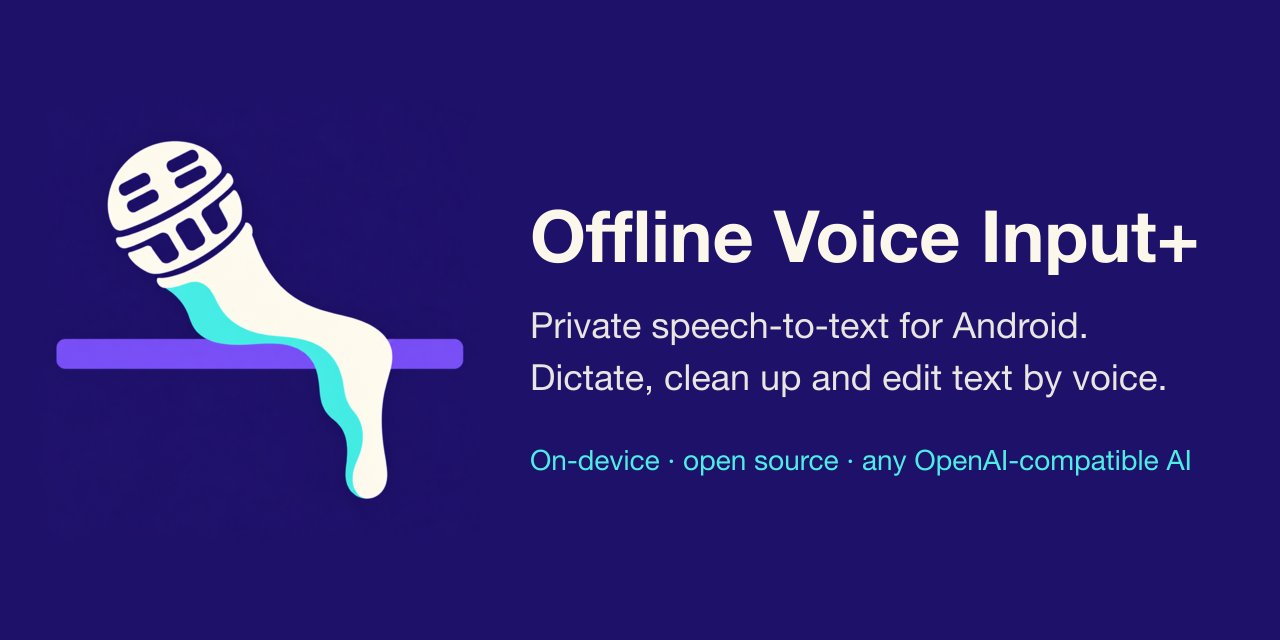
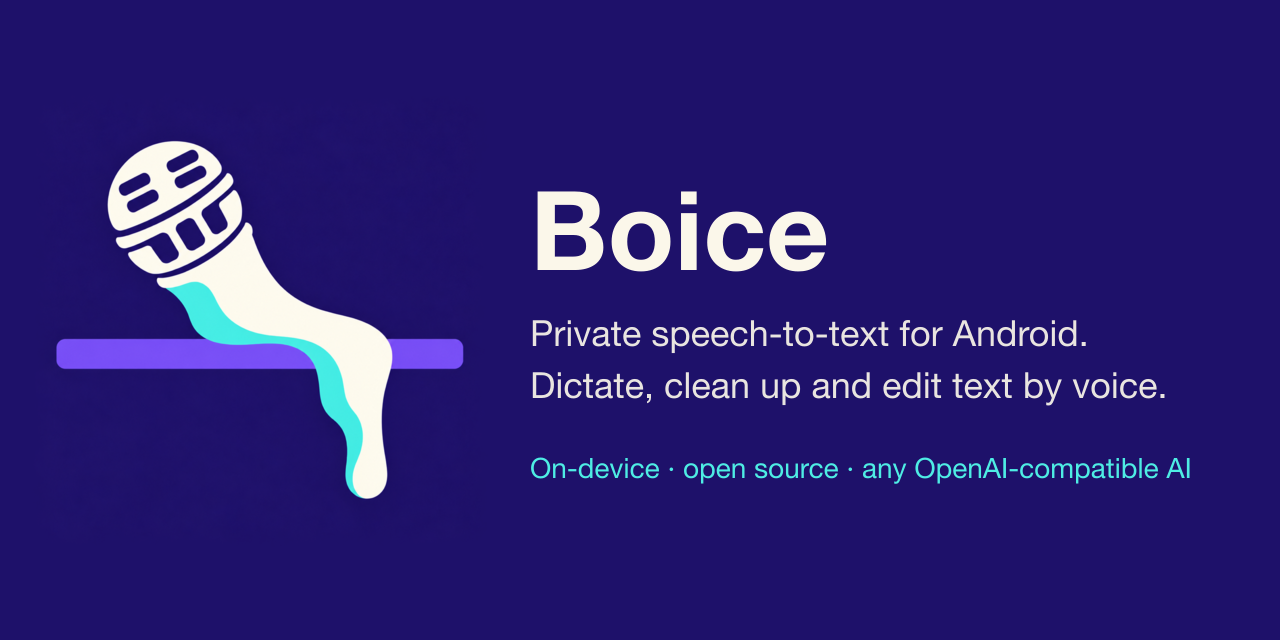
Rename the Plus edition to Boice with its own app ID and signing key
Claude-Session: https://claude.ai/code/session_01Su4x5ToDzccRVDSsGWM9b5

Changed region(s): [[0.4062, 0.4688, 0.9062, 0.625], [0.4062, 0.2812, 0.9375, 0.4375], [0.4062, 0.6875, 0.9375, 0.75]]

diff --git a/README.md b/README.md
@@ -1,11 +1,11 @@
-<img src="docs/branding/icon-v6-melting-mic-skull-hint-1024.png" width="96" align="right" alt="Offline Voice Input+ icon">
+<img src="docs/branding/icon-v6-melting-mic-skull-hint-1024.png" width="96" align="right" alt="Boice icon">
 
-# Offline Voice Input+ (Android)
+# Boice (Android)
 
 Private speech-to-text for Android. Speech is transcribed on the phone and typed into any app; optionally an AI model of your choice cleans the text up or edits it on a spoken instruction.
 
 > [!IMPORTANT]
-> **Unofficial fork.** Offline Voice Input+ is an independent fork of
+> **Unofficial fork.** Boice is an independent fork of
 > [Offline Voice Input](https://github.com/notune/android_transcribe_app) by Noah Mühl.
 > It is not affiliated with or endorsed by the upstream project. See
 > [what the fork adds](#what-this-fork-adds).
@@ -22,7 +22,7 @@ Private speech-to-text for Android. Speech is transcribed on the phone and typed
 ## Install
 
 [<img src="https://i.ibb.co/q0mdc4Z/get-it-on-github.png"
-alt="Download Offline Voice Input+ from GitHub"
+alt="Download Boice from GitHub"
 height="80">](https://github.com/dmtnndxr/android_transcribe_app/releases/latest)
 [<img src="https://raw.githubusercontent.com/ImranR98/Obtainium/main/assets/graphics/badge_obtainium.png"
 alt="Get it on Obtainium"
@@ -34,7 +34,7 @@ height="80">](https://apps.obtainium.imranr.dev/redirect?r=obtainium://add/https
 
 **Updates.** The app doesn't update itself. Either install a newer APK over the old one (settings, models and history are kept), or add the repository to [Obtainium](https://github.com/ImranR98/Obtainium) with the badge above and it will fetch new releases from GitHub.
 
-Requirements: Android 8.0 or newer, a 64-bit ARM phone (arm64-v8a). The app ID is `io.github.dmtnndxr.transcribe`, so it installs alongside the original app.
+Requirements: Android 8.0 or newer, a 64-bit ARM phone (arm64-v8a). The app ID is `io.github.dmtnndxr.boice`, so it installs alongside the original app.
 
 Looking for the original project? Visit the
 [upstream repository](https://github.com/notune/android_transcribe_app) or install
@@ -42,7 +42,7 @@ the [original Offline Voice Input from Google Play](https://play.google.com/stor
 
 ## What this fork adds
 
-| | Original | Offline Voice Input+ |
+| | Original | Boice |
 |---|---|---|
 | Offline dictation, live subtitles, audio-file transcription, custom GGUF models | ✅ | ✅ |
 | AI post-processing with your own OpenAI-compatible server | — | ✅ |
@@ -84,7 +84,7 @@ All settings are described in the [settings reference](docs/settings.md).
 
 ### Voice input in any app (recommended)
 
-1. Open **Offline Voice Input** once and grant the microphone permission. The home screen shows a **Voice input** status — green when you're ready to go.
+1. Open **Boice** once and grant the microphone permission. The home screen shows a **Voice input** status — green when you're ready to go.
 2. In any app, tap the **microphone** on your keyboard (e.g. Microsoft SwiftKey) or the voice-search mic on a website. A compact panel slides up over the app you're in, you speak, and your words are inserted as text. Tap to stop — or enable *Auto-stop after silence* in the app's settings to have it stop by itself.
 
 The app plugs into Android's speech-to-text in **three** ways, so it works with a wide range of keyboards and apps:
@@ -101,13 +101,13 @@ Tap **Try voice input** on the home screen to test the whole flow in one tap.
 
 - **Microsoft SwiftKey** (not open source) opens the compact voice panel directly, like website voice search does. If SwiftKey's own voice typing opens instead, go to SwiftKey Settings → *Rich input* → turn off **Multi-modal voice typing**.
 - **AnySoftKeyboard** is the open-source way to get the panel: its mic key fires the standard speech intent as long as no *voice keyboard* is enabled on the system. (If one is enabled — ours or Google's — it switches to that instead.)
-- **HeliBoard, FlorisBoard, OpenBoard, Fossify Keyboard, Unexpected Keyboard:** their mic key never opens the panel — it switches to the system *voice input keyboard*. Enable the **Offline Voice Input** keyboard (see below) and it opens automatically; its keyboard-switch key takes you back. **FUTO Keyboard** ships its own built-in voice input.
+- **HeliBoard, FlorisBoard, OpenBoard, Fossify Keyboard, Unexpected Keyboard:** their mic key never opens the panel — it switches to the system *voice input keyboard*. Enable the **Boice** keyboard (see below) and it opens automatically; its keyboard-switch key takes you back. **FUTO Keyboard** ships its own built-in voice input.
 - **Gboard:** only uses Google's own voice typing, so it can't hand speech to this app at all.
-- If Android shows a chooser, pick **Offline Voice Input** and tap **Always**. If another app always opens, clear its default in *Settings → Apps*.
+- If Android shows a chooser, pick **Boice** and tap **Always**. If another app always opens, clear its default in *Settings → Apps*.
 
 ### Dedicated voice keyboard (optional)
 
-Prefer voice input as its own keyboard? Enable the **Offline Voice Input** keyboard via *Open Keyboard Settings* on the home screen, switch to it from your keyboard switcher, then tap **Tap to Record**. By default the recording keeps running even if you switch apps or the keyboard closes (turn off *Record in background* in settings if you don't want that) — the text is inserted when you come back.
+Prefer voice input as its own keyboard? Enable the **Boice** keyboard via *Open Keyboard Settings* on the home screen, switch to it from your keyboard switcher, then tap **Tap to Record**. By default the recording keeps running even if you switch apps or the keyboard closes (turn off *Record in background* in settings if you don't want that) — the text is inserted when you come back.
 
 ### AI post-processing (optional)
 
@@ -155,13 +155,13 @@ Tap **Start Live Subtitles** and choose *Share entire screen* to get real-time, 
 **Advanced: skip the screen-capture dialog.** Android shows a "Start recording or casting?" consent dialog every time subtitles start. You can pre-approve it once via adb — after that, subtitles start instantly and the setting survives reboots (USB debugging can be turned off again afterwards):
 
 ```bash
-adb shell appops set --user 0 io.github.dmtnndxr.transcribe PROJECT_MEDIA allow
+adb shell appops set --user 0 io.github.dmtnndxr.boice PROJECT_MEDIA allow
 ```
 
 To undo it:
 
 ```bash
-adb shell appops set --user 0 io.github.dmtnndxr.transcribe PROJECT_MEDIA default
+adb shell appops set --user 0 io.github.dmtnndxr.boice PROJECT_MEDIA default
 ```
 
 This relies on the undocumented `PROJECT_MEDIA` app-op; on some OEM builds it may not work or may get reset by the system — the normal dialog remains the fallback. The same instructions are shown in-app under *Skip the permission dialog (advanced)*.

diff --git a/docs/ROADMAP.md b/docs/ROADMAP.md
@@ -1,4 +1,4 @@
-# План развития Offline Voice Input+
+# План развития Boice
 
 Состояние на 1 октября 2026, версия 0.1.21.
 
@@ -157,27 +157,38 @@ Obtainium в README (этап 3).
 
 ---
 
-## Этап 3.5. Новое название — Boice
+## Этап 3.5. Новое название — Boice — сделано, ждёт проверки
 
 Решено 2 октября 2026: приложение называется **Boice** вместо
 «Offline Voice Input+». Менять до скриншотов и роликов: название попадает
 почти в каждый кадр.
 
-- [ ] Название в сборке `plus`: `app_name`, название клавиатуры и службы
+- [x] Название в сборке `plus`: `app_name`, название клавиатуры и службы
       распознавания (`app/src/plus/res/values/strings.xml`).
-- [ ] Тексты интерфейса, где название написано словами («выберите Offline
+- [x] Тексты интерфейса, где название написано словами («выберите Offline
       Voice Input», справка по настройке, описание клавиатуры) — для всех
       7 языков. В сборке `standard` остаётся старое название.
-- [ ] README, `docs/settings.md`, `docs/build-and-run.md`, описание и
+- [x] README, `docs/settings.md`, `docs/build-and-run.md`, описание и
       название для площадок (`fastlane`).
-- [ ] Превью репозитория `docs/branding/social-preview.png`.
-- [ ] Название выпуска в `.github/workflows/android_release.yml`
-      («Edition: Offline Voice Input+»).
-- [ ] Упоминания оригинала («форк Offline Voice Input») оставить как есть.
-- [ ] Решить отдельно: менять ли описание и название репозитория на GitHub
-      и идентификатор приложения (`io.github.dmtnndxr.transcribe`). Смена
-      идентификатора означает новую установку без переноса настроек.
-
+- [x] Превью репозитория `docs/branding/social-preview.png`.
+- [x] Название выпуска в `.github/workflows/android_release.yml`
+      («Edition: Boice»); APK в выпуске теперь `boice-v<версия>.apk`.
+- [x] Упоминания оригинала («форк Offline Voice Input») оставить как есть.
+- [x] Идентификатор приложения `io.github.dmtnndxr.boice` вместо
+      `io.github.dmtnndxr.transcribe`. Это новое приложение: ставится рядом
+      со старым, настройки, модели и история не переносятся.
+- [x] Новый ключ подписи `boice.keystore` (псевдоним `boice`, пароль в
+      `boice-signing.pass`, оба файла в .gitignore). Суффикс версии `-plus`
+      убран.
+- [x] CI читает секреты `BOICE_KEYSTORE_BASE64` и `BOICE_KEYSTORE_PASSWORD`.
+- [ ] Записать эти секреты в GitHub (делает автор) и сохранить копию ключа
+      вне репозитория: без него нельзя выпускать обновления.
+- [ ] Старые секреты `PLUS_KEYSTORE_*` и `plus.keystore` удалить после
+      первого выпуска Boice.
+- [ ] Переименовать репозиторий на GitHub (по желанию; GitHub оставит
+      перенаправление со старого адреса).
+- Java-пакет `dev.notune.transcribe` не меняем: от него зависят имена
+  JNI-функций в Rust и слияния с оригиналом. Пользователю он не виден.
 ---
 
 ## Этап 4. Скриншоты

diff --git a/docs/settings.md b/docs/settings.md
@@ -1,6 +1,6 @@
 # Settings reference
 
-Every setting in Offline Voice Input+, what it does, its default, and what it
+Every setting in Boice, what it does, its default, and what it
 costs in privacy, battery or speed. Names match the English interface.
 
 Settings are stored in the app's private storage. Nothing is synced, and the

diff --git a/docs/build-and-run.md b/docs/build-and-run.md
@@ -68,7 +68,7 @@ Check it worked: `adb devices` should list your phone.
 ## 5. Enable the keyboard
 
 **Settings → General management → Keyboard list and default →**
-turn on **Offline Voice Input**.
+turn on **Boice**.
 
 To use it: tap the keyboard icon in the navigation bar (or long-press space)
 and pick it.
